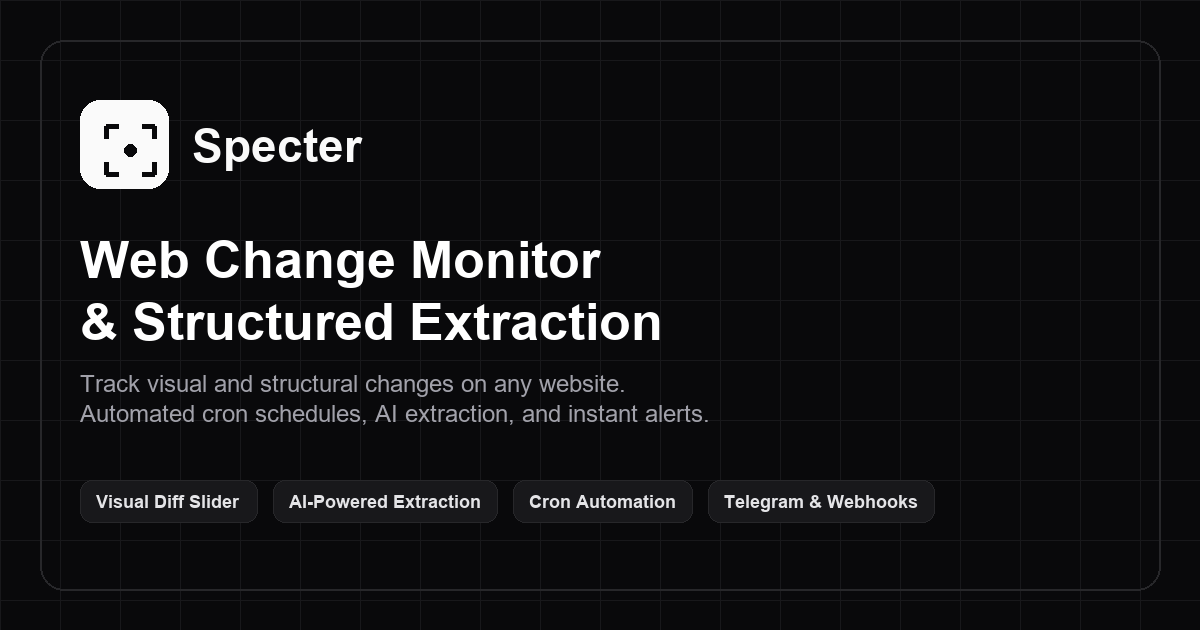
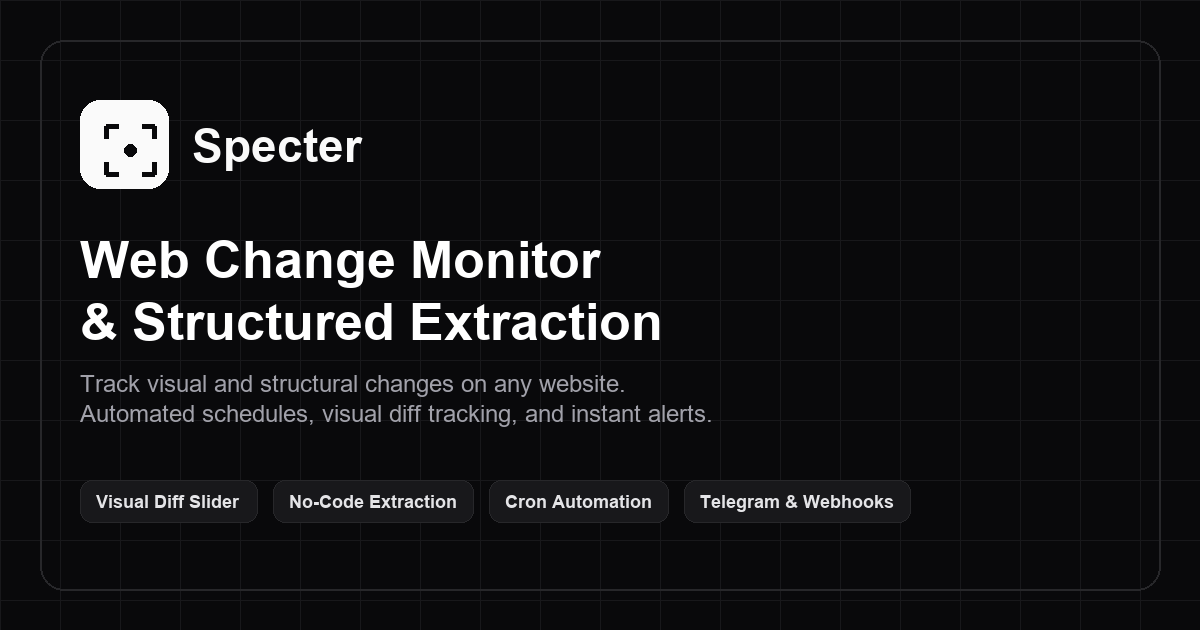
refactor(copy): shift positioning to user utility and no-code extraction (remove AI mentions)

Changed region(s): [[0.1542, 0.6333, 0.5858, 0.6937], [0.2467, 0.7841, 0.7708, 0.8143]]

diff --git a/frontend/src/components/marketing/LandingSection.tsx b/frontend/src/components/marketing/LandingSection.tsx
@@ -16,7 +16,7 @@ export function LandingSection({ user, onGetStarted, onOpenCreate }: LandingSect
   const faqs = [
     {
       q: 'How does Specter detect visual and structured changes?',
-      a: 'Specter executes scheduled headless browser crawls to capture full-page snapshots, extract targeted data structures using AI, and compare pixel-level visual differences between runs.',
+      a: 'Specter executes scheduled browser crawls to capture full-page snapshots, extract targeted data structures, and compare pixel-level visual differences between runs.',
     },
     {
       q: 'Can Specter monitor dynamic, single-page applications (SPAs)?',
@@ -42,7 +42,8 @@ export function LandingSection({ user, onGetStarted, onOpenCreate }: LandingSect
 
         <p className="text-base sm:text-lg text-muted-foreground leading-relaxed max-w-2xl mx-auto">
           Monitor critical websites automatically. Track visual diffs side-by-side, extract clean
-          structured data with AI, and receive instant alerts via Telegram and Webhooks.
+          structured data without writing code, and receive instant alerts via Telegram and
+          Webhooks.
         </p>
 
         {/* Central Action Buttons */}
@@ -106,12 +107,12 @@ export function LandingSection({ user, onGetStarted, onOpenCreate }: LandingSect
         <div className="grid grid-cols-1 md:grid-cols-3 gap-6">
           <div className="p-6 rounded-xl border border-border bg-card/60 backdrop-blur-xs space-y-3">
             <div className="h-10 w-10 rounded-lg bg-primary/10 text-primary flex items-center justify-center">
-              <Sparkles className="h-5 w-5" />
+              <Zap className="h-5 w-5" />
             </div>
-            <h3 className="text-base font-semibold text-foreground">AI-Driven Extraction</h3>
+            <h3 className="text-base font-semibold text-foreground">No-Code Extraction</h3>
             <p className="text-sm text-muted-foreground leading-relaxed">
-              Describe what information you need in plain language. Specter compiles headless
-              scraping routines to isolate clean structured data.
+              Describe what information you need in simple language. Specter automatically
+              identifies and extracts clean structured data records from any dynamic web page.
             </p>
           </div>
 

diff --git a/frontend/src/app/layout.tsx b/frontend/src/app/layout.tsx
@@ -104,7 +104,7 @@ const jsonLd = {
       featureList: [
         'Automated Web Scraping and Monitoring',
         'Visual Diff Slider & Screenshot Comparison',
-        'AI-powered Structured Data Extraction',
+        'No-Code Structured Data Extraction',
         'Scheduled Cron Jobs',
         'Telegram and Webhook Alert Integrations',
       ],
@@ -117,7 +117,7 @@ const jsonLd = {
           name: 'What is Specter?',
           acceptedAnswer: {
             '@type': 'Answer',
-            text: 'Specter is an automated website change monitoring and structured data extraction tool that tracks visual differences and extracts structured data using AI on scheduled cron intervals.',
+            text: 'Specter is an automated website change monitoring and structured data extraction tool that tracks visual differences and extracts structured data on scheduled cron intervals.',
           },
         },
         {
